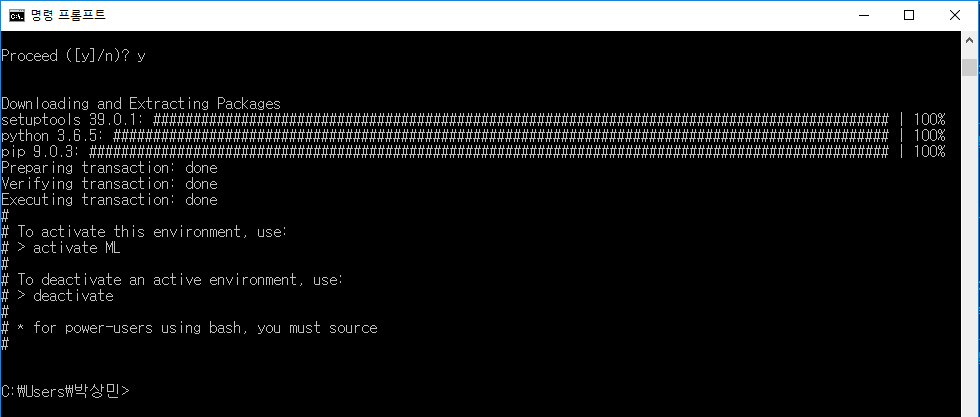
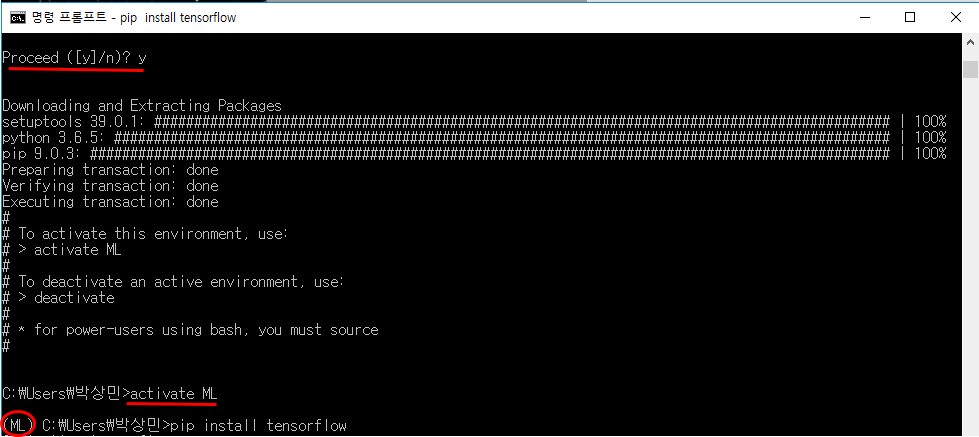
contents add

Changed region(s): [[0.0, 0.0, 1.0, 1.0]]

diff --git a/_posts/2018-03-31-Python.md b/_posts/2018-03-31-Python.md
@@ -226,16 +226,12 @@ Tensorflow 설치시 Numpy도 같이 설치된다. 별도의 설치가 필요할
 <div class="well well-sm">
 아나콘다 가상환경 설정하기
 </div>
+<b>가상환경 생성 commend : </b><code class="highlighter-rouge">conda create -n ML python=3.5</code><br>
 ![_config.yml]({{ site.baseurl }}/images/2018-3-31-Python/conda_virtualenv1.png)
 <hr><br>
 
+<b>가상환경 접근 commend : </b><code class="highlighter-rouge">activate ML</code><br>
 ![_config.yml]({{ site.baseurl }}/images/2018-3-31-Python/conda_virtualenv2.png)
-<hr><br>
-
-<div class="well well-sm">
-가상환경 접근 <b>commend : </b><code class="highlighter-rouge">pip install tensorflow</code><br>
-</div>
-![_config.yml]({{ site.baseurl }}/images/2018-3-31-Python/conda_virtualenv3.png)
 <hr><br>
 
 <div class="well well-sm">
